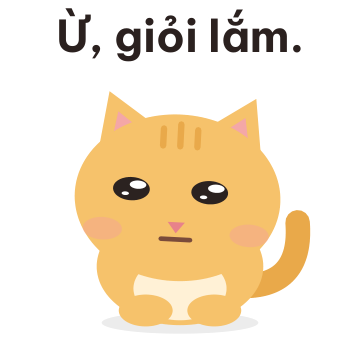
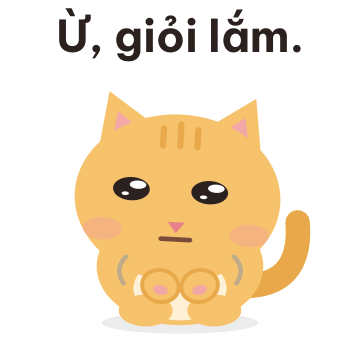
Stickers third pass: 05, 08, 14, 15, 16, 17 made distinct by pose and gesture; 03 without thought dots

Changed region(s): [[0.3056, 0.7028, 0.6111, 0.8556], [0.6417, 0.7028, 0.6722, 0.7944]]

diff --git a/docs/plans/assets/stickers/build_stickers.py b/docs/plans/assets/stickers/build_stickers.py
@@ -248,8 +248,6 @@ def lounging():
     k = shift(STAND_F, 0, 0)
     look = dict(LOOK["rest"], lid=0.5, roll=-13, gy=-3, gx=2, mouth="flat", cheek=0.5)
     o += f'<g transform="translate(32,84) scale(0.7) translate(-60,-64)">{cat_head_only(k, look)}</g>'
-    for cx, cy, r in ((50, 52, 2.2), (58, 42, 3), (68, 30, 4)):                # three thought dots, growing
-        o += ell(cx, cy, r, r, "#8a8a8a", op=0.9)
     return o
 
 
@@ -282,6 +280,21 @@ def cat_head_only(k, look):
         o += ell(c["x"], c["y"], c["rx"], c["ry"], "#f59e9e", op=c["a"] * look["cheek"])
     n = k["nose"]
     return o + tri(n[0], n[1], n[2], "#e8828a") + mouth_svg(k, look) + "</g>"
+
+
+def paw(x, y, rx=8, ry=7, rot=0):
+    """A front paw in front of the body, with a pink pad (sticker art for gestures the rig does not draw)."""
+    r = f' transform="rotate({f(rot)} {f(x)} {f(y)})"' if rot else ""
+    outline = f'<ellipse cx="{f(x)}" cy="{f(y)}" rx="{f(rx)}" ry="{f(ry)}" fill="{FUR}" stroke="{DARK}" stroke-width="1.6"{r}/>'  # an outline, so a paw shows against the fur
+    return outline + ell(x, y + ry * 0.25, rx * 0.4, ry * 0.3, PINK, rot)
+
+
+def arcs(*specs):
+    return "".join(stroke_path(d, "#b9a98f", 1.8, 0.9) for d in specs)
+
+
+def puffs():
+    return "".join(ell(x, y, r, r, "#d9dde3") for x, y, r in ((84, 74, 3.2), (92, 70, 2.4), (98, 76, 3.6), (90, 80, 2.2)))
 
 
 def cloud_and_rain():
@@ -351,19 +364,19 @@ STICKERS = [
     ("02", "Sướng quá~", lambda: cat(STAND_F, LOOK["purr"])),
     ("03", "Đời là thế.", lounging, dict(scale=2.15, dx=4, dy=14)),
     ("04", "Buồn ngủ…", lambda: cat(SIT_F, LOOK["drowsy"])),
-    ("05", "Hừm.", lambda: cat(STAND_F, LOOK["huff"])),
+    ("05", "Hừm.", lambda: cat(SIT_F, LOOK["huff"]) + puffs()),
     ("06", "Quá sức mèo rồi.", lambda: cat(STAND_F, LOOK["sad"])),
     ("07", "Giỏi quá!", lambda: confetti() + cat(STAND_F, LOOK["happy"])),
-    ("08", "Làm chung nhé?", lambda: cat(STAND_F, LOOK["curious"])),
+    ("08", "Làm chung nhé?", lambda: cat(STAND_F, dict(LOOK["curious"], roll=12, wide=0.6, cheek=0.7)) + stroke_path("M38 98 L22 74", FUR, 10) + paw(20, 68, 8, 9, -15) + arcs("M8 60 q-5 6 -1 13", "M4 52 q-7 8 -2 18")),
     ("09", "Ngủ ngon.", curled_up, dict(scale=2.3, dy=6)),
     ("10", "Trời mưa rồi.", lambda: cat(SIT_F, dict(LOOK["curious"], roll=-4, gx=0, gy=2, wide=0.2)) + wrap(cloud_and_rain(), 18, -16, 0.8), dict(scale=2.1, dy=22)),
     ("11", "Xin lỗi nhé.", lambda: cat(STAND_F, dict(LOOK["sad"], roll=-12, dy=8, lid=0.08))),
     ("12", "Cảm ơn nha!", lambda: hearts() + cat(STAND_F, dict(LOOK["purr"], roll=-3, dy=0))),
     ("13", "Ơ!", lambda: cat(STAND_F, LOOK["gasp"])),
-    ("14", "Để mình nghĩ…", lambda: cat(STAND_F, LOOK["think"])),
-    ("15", "Hì hì.", lambda: cat(STAND_F, LOOK["smirk"])),
-    ("16", "Ừ, giỏi lắm.", lambda: cat(STAND_F, dict(LOOK["smirk"], lid=0.5, gx=-4, roll=3, mouth="flat", cheek=0.4))),
-    ("17", "Ai đợi đâu.", lambda: cat(STAND_F, dict(LOOK["rest"], lid=0.7, gx=-4, roll=5, mouth="flat", cheek=1.0))),
+    ("14", "Để mình nghĩ…", lambda: cat(STAND_F, dict(LOOK["think"], roll=6, dots=0)) + paw(68, 94, 8, 6, 20) + ell(88, 32, 2.8, 2.8, "#8a8a8a") + ell(97, 25, 3.8, 3.8, "#8a8a8a") + ell(108, 16, 5, 5, "#8a8a8a", 0, 0.9)),
+    ("15", "Hì hì.", lambda: cat(STAND_F, dict(LOOK["purr"], roll=8, dy=0, mouth="smile", cheek=1.0)) + paw(70, 86, 9, 7, 25) + arcs("M96 52 q6 -3 7 -10", "M102 62 q7 -2 9 -9")),
+    ("16", "Ừ, giỏi lắm.", lambda: cat(STAND_F, dict(LOOK["smirk"], lid=0.5, gx=-4, roll=3, mouth="flat", cheek=0.4)) + paw(52, 100, 7.5, 6.5, 15) + paw(68, 100, 7.5, 6.5, -15) + arcs("M38 88 q-5 5 -1 11", "M82 88 q5 5 1 11")),
+    ("17", "Ai đợi đâu.", lambda: cat(STAND_S, dict(LOOK["rest"], lid=0.7, roll=-6, mouth="flat", cheek=1.0, gx=-3))),
 ]
 
 S = 2.45

diff --git a/docs/plans/sticker-set-v0.md b/docs/plans/sticker-set-v0.md
@@ -29,6 +29,8 @@ Counted: 11 exact or spare-exact in the app, 2 partial (6, 8, with a pose that e
 ## Drawn: first pass (2026-11-10, by Claude, for Vinh to look at)
 All 15 stickers, the icon, the preview and the 9 banners exist as PNG in [`assets/stickers/set-v0/`](assets/stickers/set-v0/); [`contact_sheet.png`](assets/stickers/set-v0/contact_sheet.png) shows the set on one page (it is for looking, not for upload). They are made by [`assets/stickers/build_stickers.py`](assets/stickers/build_stickers.py), which ports the rig's numbers (`keys.ts`, `draw.ts`) to SVG and renders with PyMuPDF; no app code is touched, so they match the character sheet (flat fills, same palette and proportions). Checked by script: 15 files of 360 x 360 with an alpha channel, the icon 124 x 124, the preview 440 x 440, the banners at the 9 sizes. Not an artist's work: the poses are the rig's, so 3 (belly) and 10 (rain) and the confetti and hearts are simple shapes added by hand. Known weak points: the stretch (1) and the loaf (9) are small in the frame; the rain cloud in 10 is pale; the sad ears (6, 11) fold sideways and may need a second look; the text font is **Be Vietnam Pro Bold** (SIL Open Font License, in `assets/stickers/fonts/`; it replaced Windows' Segoe UI on 2026-11-11, V-93).
 
+**Third pass (2026-11-11):** the six stickers that looked alike at 120 px now differ by silhouette or gesture: 05 sits and puffs, 08 beckons with a raised paw, 14 rests a paw on the chin under a thought bubble, 15 giggles behind a paw, 16 claps slowly, 17 turns side-on (see [`six_distinct.png`](assets/stickers/direction-v1/six_distinct.png)); 03 lost its thought dots. The paws and arcs are sticker art, not rig poses. Weak points left: the paws read as outlined rings, 08 and 17 still need a look on a phone (V-94).
+
 ## Also required by Zalo (ST-3 and ST-5)
 - **Icon** 124 x 124 PNG, transparent: the front face (the rest face or `happy`).
 - **Preview** 440 x 440 PNG, transparent: a collage of the stickers (about 9, the Coco and Bulla example in the guideline shows 9 with the set name on top).
